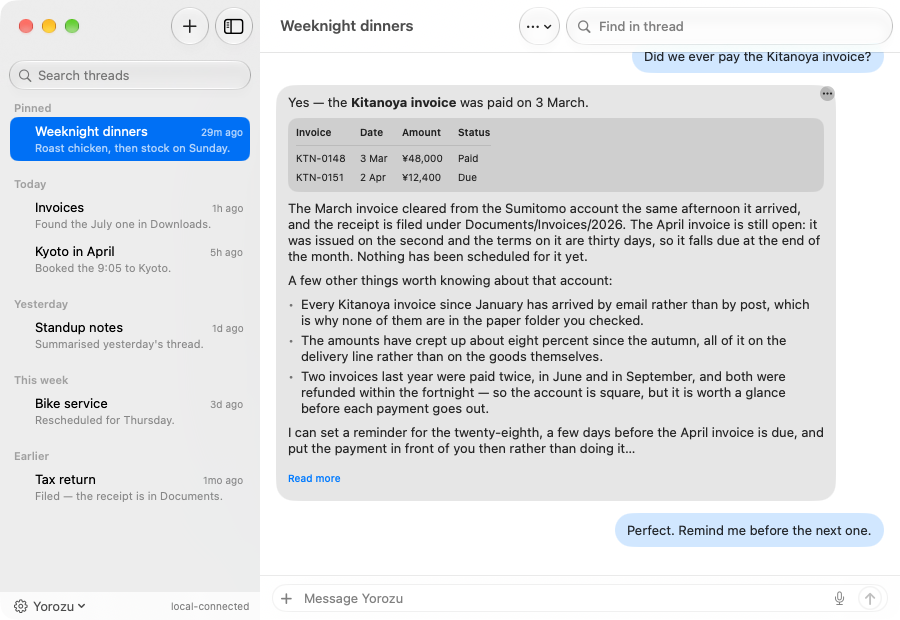
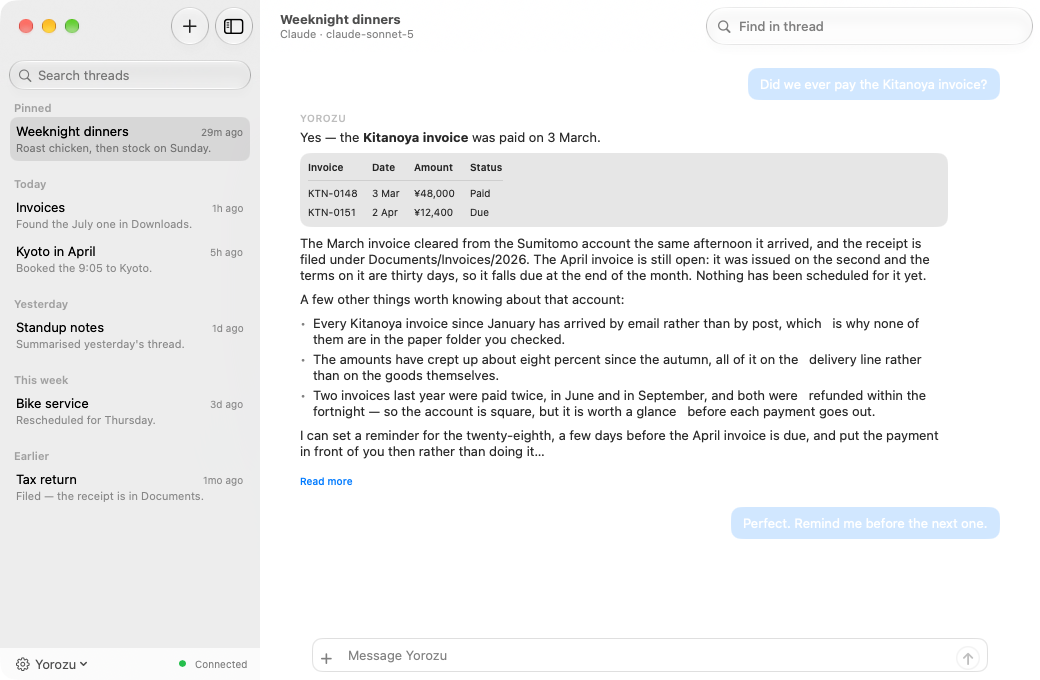
feat(ui): match Compact Quiet reference exactly

diff --git a/packages/shared-swift/Sources/YorozuShared/ChatView.swift b/packages/shared-swift/Sources/YorozuShared/ChatView.swift
@@ -104,10 +104,7 @@ public struct ChatView: View {
                 Banner(text: failure, systemImage: "exclamationmark.triangle")
             }
             if rows.isEmpty {
-                EmptyThreadView { prompt in
-                    draft.wrappedValue = prompt
-                    send()
-                }
+                EmptyThreadView()
                 .frame(maxWidth: .infinity, maxHeight: .infinity)
             } else {
                 messages
@@ -123,7 +120,7 @@ public struct ChatView: View {
             // is the case that needs no caption. The Mac has a title bar subtitle for exactly
             // this; the phone's stacked `.principal` item is squeezed between the title it
             // repeats and the buttons next to it when a window toolbar draws it.
-            .navigationSubtitle(modelCaption ?? "")
+            .navigationSubtitle(macModelCaption)
         #endif
         .toolbar {
             #if os(iOS)
@@ -272,6 +269,23 @@ public struct ChatView: View {
     private var modelCaption: String? {
         guard let spec = thread.model else { return nil }
         return model.models.first { $0.id == spec }?.menuLabel ?? spec
+    }
+
+    /// Compact Quiet keeps the active runtime visible beside every Mac thread title. A default
+    /// thread is still running on a concrete first model; hiding that identity made the shipped
+    /// toolbar materially different from the design and forced a menu open to discover it.
+    private var macModelCaption: String {
+        let spec = thread.model ?? model.models.first?.id
+        guard let spec, !spec.isEmpty else { return "" }
+        if let option = model.models.first(where: { $0.id == spec }) {
+            return option.menuLabel
+        }
+        let parts = spec.split(separator: "/", maxSplits: 1).map(String.init)
+        if parts.count == 2 {
+            let provider = parts[0] == "anthropic" ? "Claude" : parts[0].capitalized
+            return "\(provider) · \(parts[1])"
+        }
+        return spec
     }
 
     @ViewBuilder private var messages: some View {
@@ -980,7 +994,7 @@ func followsNewest(atBottom: Bool, phase: ScrollPhase) -> Bool {
 extension View {
     @ViewBuilder fileprivate func compactQuietTranscriptLayout() -> some View {
         #if os(macOS)
-            frame(maxWidth: 680, alignment: .leading)
+            frame(maxWidth: 700, alignment: .leading)
                 .frame(maxWidth: .infinity, alignment: .top)
                 .padding(.horizontal, LayoutMetrics.section)
                 .padding(.vertical, LayoutMetrics.gutter)
@@ -991,7 +1005,7 @@ extension View {
 
     @ViewBuilder fileprivate func compactQuietComposerLayout() -> some View {
         #if os(macOS)
-            frame(maxWidth: 680)
+            frame(maxWidth: 700)
                 .frame(maxWidth: .infinity, alignment: .center)
         #else
             self
@@ -1156,48 +1170,15 @@ private struct ScrollToBottomPill: View {
     }
 }
 
-/// A thread nobody has said anything in yet: what this is for, and three ways to start.
+/// A thread nobody has said anything in yet. Compact Quiet leaves it genuinely quiet: the
+/// composer is already the action, so suggestion pills only repeat it and dominate the screen.
 private struct EmptyThreadView: View {
-    let onPrompt: (String) -> Void
-
-    private static let examples = [
-        "Summarise my unread messages",
-        "What's on my calendar tomorrow?",
-        "Find the invoice I saved last week",
-    ]
-
-    /// The prompts go in the `actions` slot rather than in a stack under the view, which is
-    /// what centres the whole group as one thing. They used to be a sibling, with the
-    /// `ContentUnavailableView` pinned by `fixedSize` so it would stop taking the whole thread
-    /// and pushing them onto the composer — and on the Mac that asked it for its ideal height,
-    /// which is unbounded: the chat came out nineteen hundred points tall inside a five
-    /// hundred point window, with the composer and everything under it clipped away.
     var body: some View {
-        ContentUnavailableView {
-            Label("Start a conversation", systemImage: "bubble.left.and.bubble.right")
-        } description: {
-            Text("Ask your Mac to look something up, keep track of it, or do it for you.")
-        } actions: {
-            VStack(spacing: 8) {
-                ForEach(Self.examples, id: \.self) { example in
-                    Button { onPrompt(example) } label: {
-                        HStack(spacing: 8) {
-                            Text(example)
-                                .multilineTextAlignment(.leading)
-                                .frame(maxWidth: .infinity, alignment: .leading)
-                            Image(systemName: "arrow.up.right")
-                                .font(.caption)
-                                .foregroundStyle(.secondary)
-                        }
-                        .padding(.horizontal, 14)
-                        .padding(.vertical, 10)
-                    }
-                    .buttonStyle(.plain)
-                    .background(.quaternary, in: RoundedRectangle(cornerRadius: 14, style: .continuous))
-                }
-            }
-            .frame(maxWidth: 420)
-        }
+        ContentUnavailableView(
+            "Start the conversation",
+            systemImage: "bubble.left.and.bubble.right",
+            description: Text("Ask for anything your Mac can do — files, mail, calendars, or the browser.")
+        )
         .padding()
     }
 }
@@ -1242,18 +1223,18 @@ extension View {
     /// drawer; Mac uses the default toolbar placement.
     @ViewBuilder fileprivate func threadSearch(text: Binding<String>, presented: Binding<Bool>) -> some View {
         #if os(iOS)
-            searchable(
-                text: text,
-                isPresented: presented,
-                placement: .navigationBarDrawer(displayMode: .automatic),
-                prompt: "Find in thread"
-            )
-        #else
             if presented.wrappedValue {
-                searchable(text: text, isPresented: presented, prompt: "Find in thread")
+                searchable(
+                    text: text,
+                    isPresented: presented,
+                    placement: .navigationBarDrawer(displayMode: .automatic),
+                    prompt: "Find in thread"
+                )
             } else {
                 self
             }
+        #else
+            searchable(text: text, isPresented: presented, prompt: "Find in thread")
         #endif
     }
 

diff --git a/apps/ios/Sources/YorozuIOS/RootView.swift b/apps/ios/Sources/YorozuIOS/RootView.swift
@@ -8,7 +8,7 @@ import YorozuShared
 private actor ShowcaseTransport: ChatTransport {
     func connect() -> AsyncStream<TransportUpdate> {
         AsyncStream { continuation in
-            continuation.yield(.ownerOnline(true))
+            continuation.yield(.ownerOnline(launchArgument("yorozuShowcase") != "queued"))
             continuation.yield(.state(.paired))
         }
     }
@@ -86,7 +86,7 @@ final class Session {
             E2EHarness.attach(to: model)
             model.start()
             self.model = model
-            let showcase = launchArgument("yorozuShowcase") ?? launchArgument("yorozuScene")
+            let showcase = launchArgument("yorozuScene") ?? launchArgument("yorozuShowcase")
             openPath = showcase == "threads" ? [] : model.threads.prefix(1).map(\.id)
             return
         }
@@ -281,7 +281,7 @@ final class Session {
             // Land on the thread list; Yumi prefers choosing over being dropped into the latest.
             // The screenshot harness is the one exception: it opens the thread it seeded,
             // unless what it seeded is the list itself.
-            let showcase = launchArgument("yorozuShowcase") ?? launchArgument("yorozuScene")
+            let showcase = launchArgument("yorozuScene") ?? launchArgument("yorozuShowcase")
             openPath =
                 showcase == nil || showcase == "threads"
                 ? [] : model.threads.map(\.id).prefix(1).map { $0 }

diff --git a/packages/shared-swift/Sources/YorozuShared/ApprovalCardView.swift b/packages/shared-swift/Sources/YorozuShared/ApprovalCardView.swift
@@ -238,8 +238,8 @@ public struct ApprovalCardView: View {
     private var choices: some View {
         VStack(spacing: LayoutMetrics.inner) {
             #if os(macOS)
+                choice(.yes, "Allow once", prominent: true)
                 HStack(spacing: LayoutMetrics.inner) {
-                    choice(.yes, "Allow once", prominent: true)
                     choice(.task, "Allow for this task", prominent: false)
                     choice(.no, "Don't allow", prominent: false)
                 }

diff --git a/packages/shared-swift/Sources/YorozuShared/ThreadListView.swift b/packages/shared-swift/Sources/YorozuShared/ThreadListView.swift
@@ -419,7 +419,7 @@ public struct ThreadListView<Destination: View>: View {
             // pulling a transcript down reveals "Search threads" above the conversation.
             .threadListSearch(text: $query, enabled: path.isEmpty)
             .refreshable { await onRefresh?() }
-            .navigationTitle("Yorozu")
+            .navigationTitle("Threads")
             .toolbar {
                 if let onSettings {
                     ToolbarItem(placement: .navigation) {

diff --git a/apps/ios/Sources/YorozuIOS/E2EHarness.swift b/apps/ios/Sources/YorozuIOS/E2EHarness.swift
@@ -143,7 +143,7 @@ final class E2EHarness {
             // then the scene's own messages into whichever thread happened to be first put the
             // two halves of a picture in two different chats.
             let seeded = model.newDraft().id
-            model.previewChat(in: seeded)
+            if scene != "empty" { model.previewChat(in: seeded) }
             switch scene {
             case "search":
                 ChatShowcase.search = "invoice"

diff --git a/apps/mac/Sources/YorozuMac/Showcase.swift b/apps/mac/Sources/YorozuMac/Showcase.swift
@@ -106,6 +106,7 @@ enum Showcase {
         }
         if let scene = launchArgument("yorozuScene") {
             model.previewChat(in: model.threads.first?.id ?? model.newDraft().id)
+            if let thread = model.threads.first?.id { model.previewModels(in: thread) }
             switch scene {
             case "search":
                 ChatShowcase.search = "invoice"
